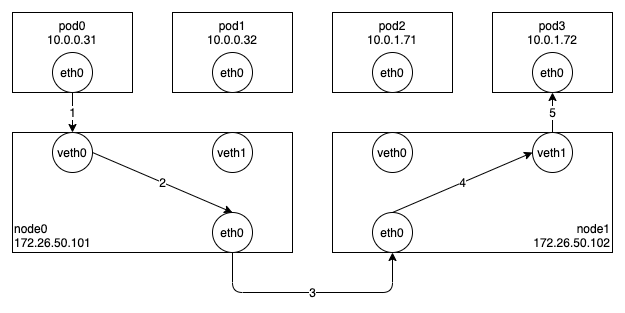
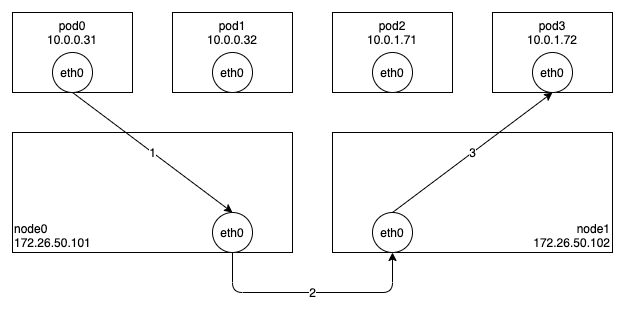
Fix k8s.cilium.ipvlan blog

diff --git a/k8s.cilium/ipvlan/index.md b/k8s.cilium/ipvlan/index.md
@@ -1,3 +1,34 @@
-cilium ipvlan 동작 과정 분석
+Cilium 은 IPVLAN 에 기반한 Datapath 기법을 제공하고 있다.
+(아직 베타 버전 기능이라서 몇 가지 버그가 있지만, 기본적인 테스트는 가능한 수준이다.)
+IPVLAN 은 VXLAN 과 마찬가지로 리눅스 커널이 제공하고 있는 기능이므로 IPVLAN 에 대한 자세한 설명은 생략하고, Cilium 의 동작 과정을 설명하면서 필요한 부분에 대해서만 간단히 부연설명하겠다.
+
+아래 그림은 Cilium 에서 IPVLAN 을 사용할 경우 Pod-To-Pod 통신이 이루어지는 과정이다.
+Node0 의 Pod0 에서 Node1 의 Pod3 으로 패킷을 보내는 과정을 살펴보도록 하자.
 
 ![cilium.vxlan](./cilium-ipvlan.png)
+
+기본적으로 VXLAN 에 비해 구조가 단순한데, 그 이유는 Pod 안에 있는 eth0 이 IPVLAN 슬레이브로, Node 의 eth0 은 IPVLAN 마스터로 동작하기 때문이다.
+IPVLAN 슬레이브에서 패킷을 전송하면 IP 헤더를 확인하여 동일한 노드에 해당 목적지 주소를 사용하는 IPVLAN 슬레이브가 있으면 바로 전달하고, 아니면 IPVLAN 마스터로 패킷을 전달한다.
+VETH 를 통과해서 패킷을 캡슐화까지 해야하는 VXLAN 에 비해 성능적인 이점이 있기 때문에 안정화된 버전이 공개되면 널리 사용될 것으로 기대된다.
+
+IPVLAN 은 MACLAN 과 달리 모든 슬레이브가 마스터의 맥 주소를 공유한다. 즉, MACLAN 처럼 마스터 네트워크 장치를 Promiscuous 모드로 사용하거나, 스위치의 물리적인 제한에 걸리는 문제가 없다는 말이다.
+아래는 IPVLAN 기반의 Cilium 을 사용할 경우 Pod 과 노드의 네트워크 정보이다.
+
+```
+pod0 $ ip addr show
+9: eth0@if2: <BROADCAST,MULTICAST,NOARP,UP,LOWER_UP> mtu 1500 qdisc noqueue state UNKNOWN group default qlen 1000
+    link/ether a4:ae:11:18:c4:2d brd ff:ff:ff:ff:ff:ff link-netnsid 0
+    inet 10.0.0.71/32 scope global eth0
+       valid_lft forever preferred_lft forever
+...
+node0 $ ip addr show
+2: eno1: <BROADCAST,MULTICAST,UP,LOWER_UP> mtu 1500 qdisc mq state UP group default qlen 1000
+    link/ether a4:ae:11:18:c4:2d brd ff:ff:ff:ff:ff:ff
+    altname enp2s0
+    inet 172.26.50.170/24 brd 172.26.50.255 scope global eno1
+       valid_lft forever preferred_lft forever
+    inet6 fe80::a6ae:11ff:fe18:c42d/64 scope link
+       valid_lft forever preferred_lft forever
+```
+
+그럼 이제 패킷이 전달되는 과정을 좀 더 상세히 살펴보도록 하자.
